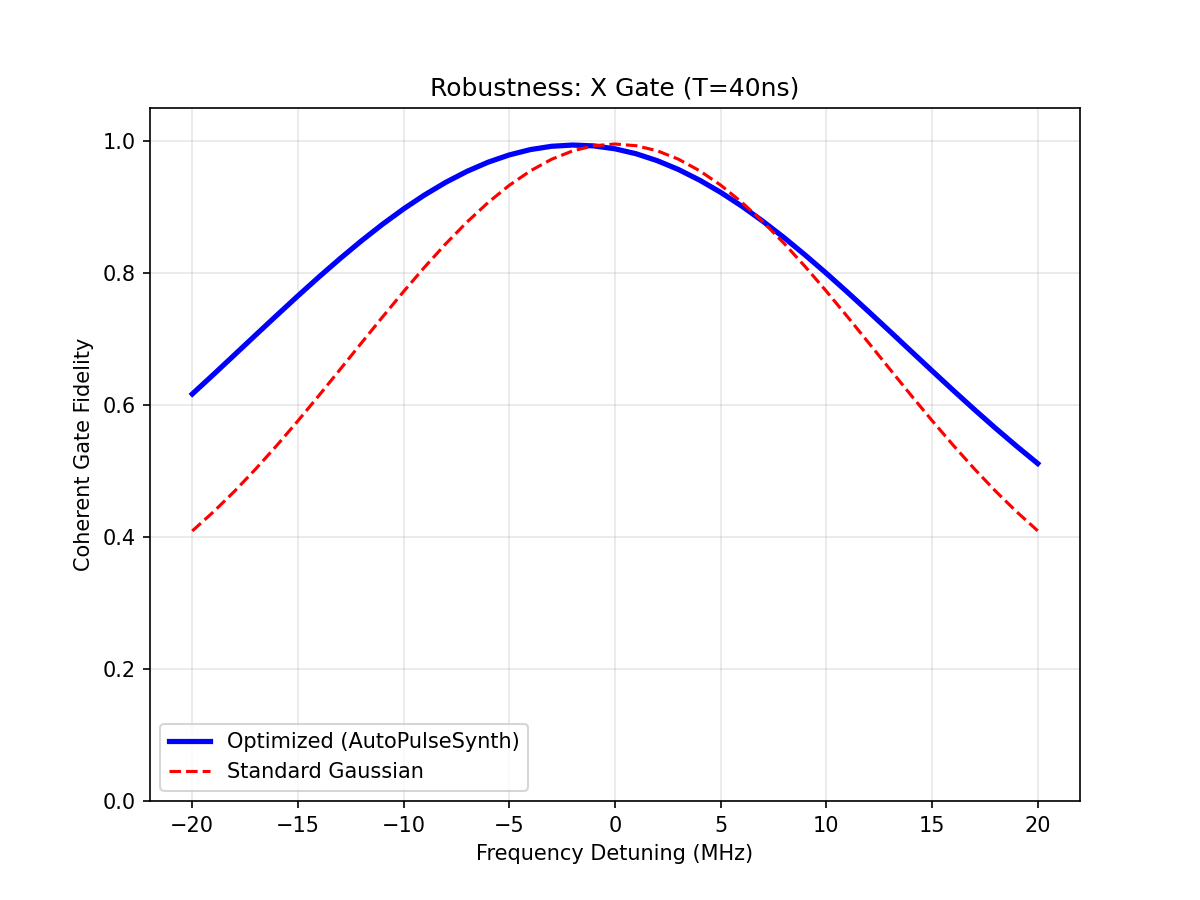
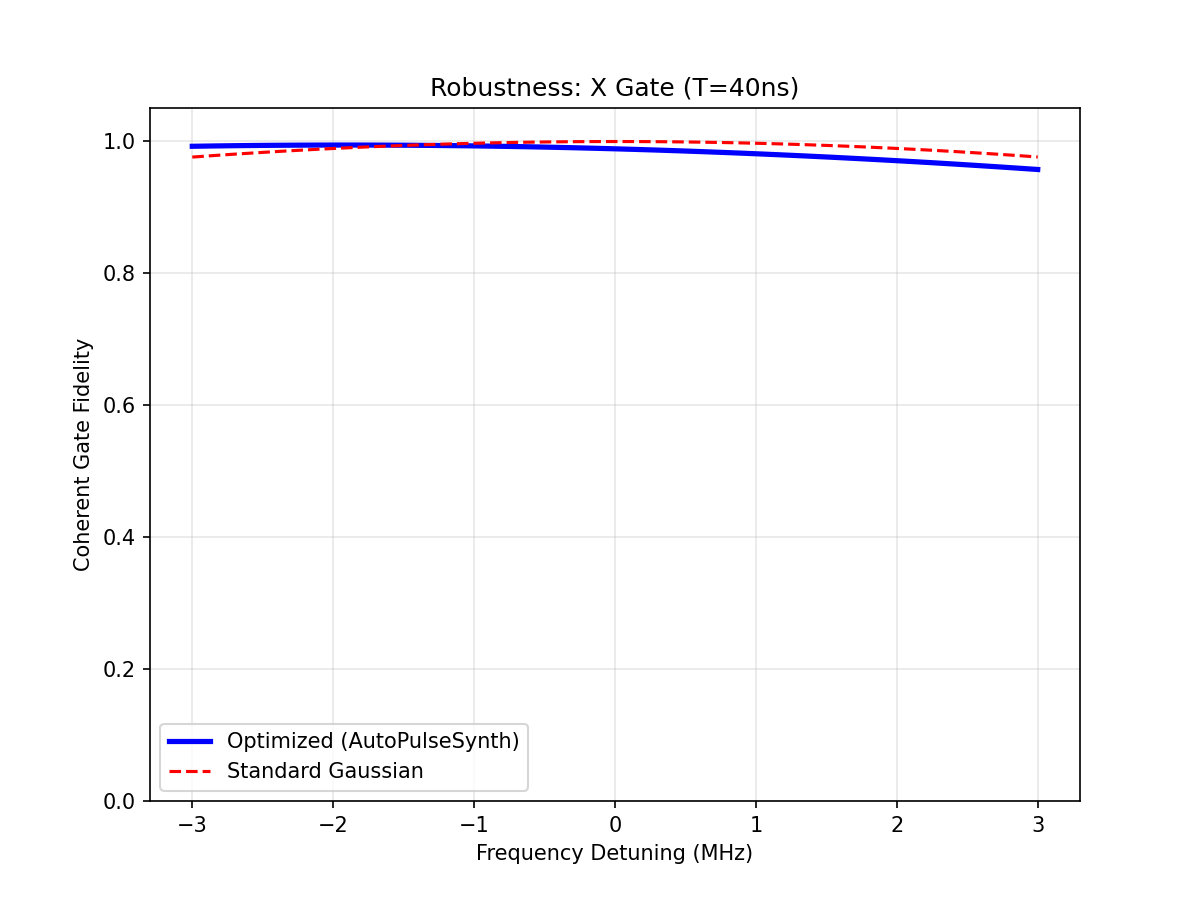
chore: remove unused files and update plot visualizations

diff --git a/scripts/plot_robustness.py b/scripts/plot_robustness.py
@@ -48,11 +48,20 @@ def main():
     ox_opt, oy_opt = pulse.sample_controls(params_opt)
     
     # Compare with "Standard" Gaussian (beta=0, calibrated A)
-    # Standard pi-pulse: A * sigma * sqrt(2pi) = pi
-    # Let's say sigma = duration/4
+    # The actual area of the truncated Gaussian from t=0 to T is slightly less than sqrt(2pi)*sigma.
+    # We numerically scale it so the discrete sum * dt is EXACTLY pi for a fair comparison.
     sigma_std = duration / 4.0
-    A_std = np.pi / (sigma_std * np.sqrt(2 * np.pi))
-    params_std = np.array([A_std, duration/2, sigma_std, 0.0, 0.0])
+    A_guess = np.pi / (sigma_std * np.sqrt(2 * np.pi))
+    params_std = np.array([A_guess, duration/2, sigma_std, 0.0, 0.0])
+    ox_std, oy_std = pulse.sample_controls(params_std)
+    
+    # Calibrate area exactly to Pi (or Pi/2 for SX)
+    target_area = np.pi if gate in ("X", "Y") else np.pi/2.0
+    dt = duration / len(ox_std)
+    actual_area = np.sum(ox_std) * dt
+    scale_factor = target_area / actual_area
+    params_std[0] *= scale_factor
+    
     ox_std, oy_std = pulse.sample_controls(params_std)
     
     # Physics Model
@@ -60,8 +69,13 @@ def main():
     t2 = data['args'].get('t2', None)
     model = QubitHamiltonianModel(t1=t1, t2=t2)
     
-    # Sweep Detuning
-    detunings = np.linspace(-20e6, 20e6, 41) # Hz
+    # Sweep Detuning based on args
+    det_max_hz = data['args'].get('det_max_hz', 20e6)
+    
+    # Expand slightly beyond the trained boundary to show the drop-off
+    plot_bound = det_max_hz * 1.5
+    
+    detunings = np.linspace(-plot_bound, plot_bound, 41) # Hz
     det_rad = detunings * 2 * np.pi
     
     fids_opt = []
@@ -69,7 +83,7 @@ def main():
     
     target = target_unitary(gate)
     
-    print("Sweeping detuning +/- 20.0 MHz...")
+    print(f"Sweeping detuning +/- {plot_bound/1e6:.1f} MHz...")
     
     for d in det_rad:
         # Theta = [det, scale=1, skew=0, noise=0]
